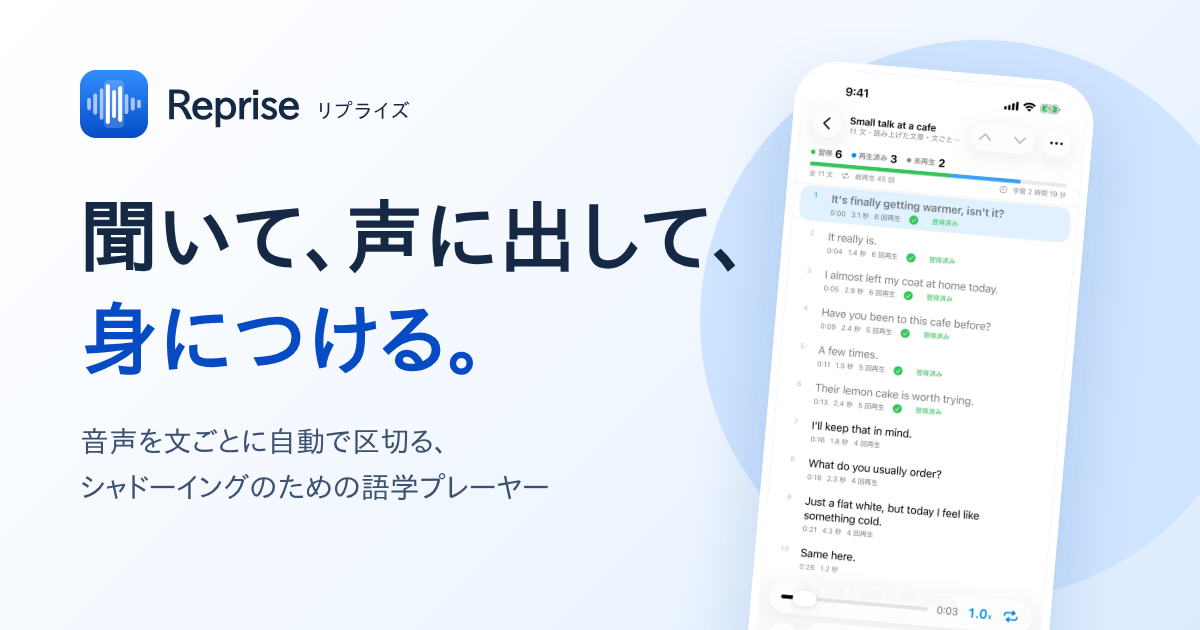
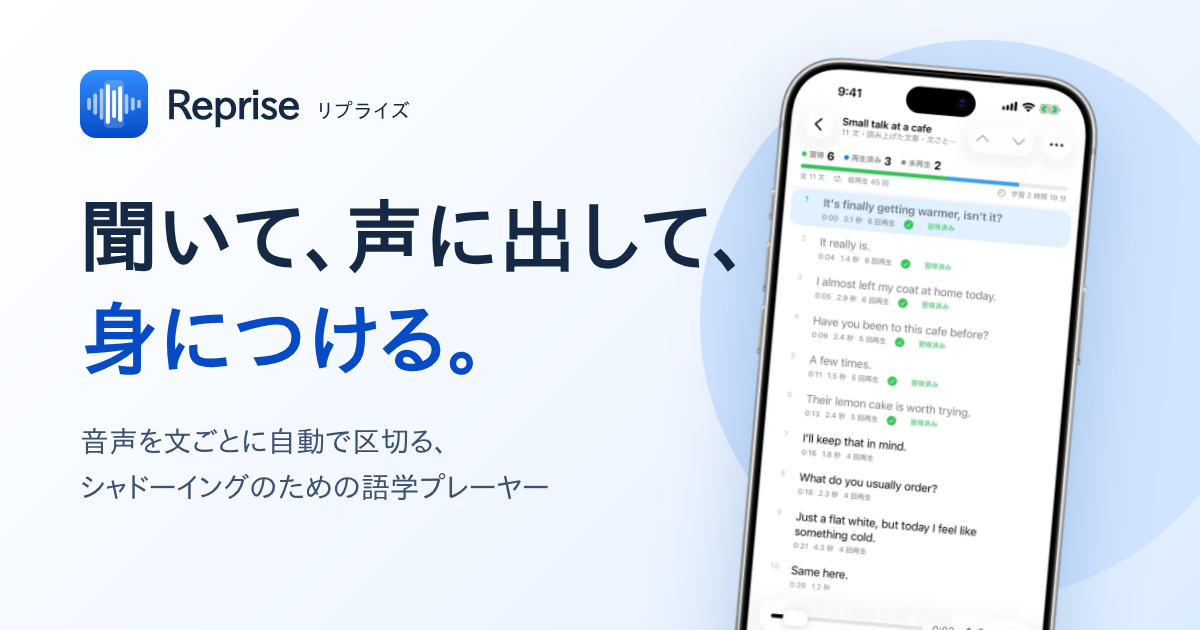
トップの画面を、iPhone の枠にはめ込んだ画像にする
- スクリーンショットを枠（scripts/iphone-frame.png）にはめ込む scripts/frame.py を加える
- 最初の画面・使える教材・学習記録の 3 か所と、SNS 共有用の画像を枠つきにする
- 作り直し方を README に書く

Claude-Session: https://claude.ai/code/session_01LzSbCUH6rd2J6LEi8o5qaL

Changed region(s): [[0.5858, 0.0905, 0.925, 1.0]]

diff --git a/scripts/og.html b/scripts/og.html
@@ -15,12 +15,12 @@
   h1 span { color: #074bc4; }
   p { font-size: 29px; line-height: 1.6; margin: 0; color: #3d5170; font-weight: 600; }
   .circle { position: absolute; right: -60px; top: 40px; width: 560px; height: 560px; border-radius: 50%; background: #cfe4ff; }
-  .phone { position: absolute; right: 130px; top: 70px; width: 300px; border: 8px solid #fff; border-radius: 44px;
-    overflow: hidden; transform: rotate(5deg); box-shadow: 0 30px 70px #1759a533; }
+  .phone { position: absolute; right: 120px; top: 60px; width: 330px; transform: rotate(5deg);
+    filter: drop-shadow(0 30px 40px #1759a540); }
   .phone img { display: block; width: 100%; }
 </style>
 <div class="circle"></div>
-<div class="phone"><img src="../public/assets/04-player-playing.webp"></div>
+<div class="phone"><img src="../public/assets/phone-04-player-playing.webp"></div>
 <div class="copy">
   <div class="brand"><img src="../public/assets/app-icon.png">Reprise<small>リプライズ</small></div>
   <h1>聞いて、声に出して、<br><span>身につける。</span></h1>

diff --git a/src/styles/lp.css b/src/styles/lp.css
@@ -2173,3 +2173,36 @@ img {
     font-size: 13px;
   }
 }
+
+/* iPhone の枠つきの画像（scripts/frame.py で作る）。枠は画像に入っているので、CSS の縁取りは外す。 */
+.phone.framed {
+  border: 0;
+  border-radius: 0;
+  background: none;
+  box-shadow: none;
+  overflow: visible;
+  filter: drop-shadow(0 26px 34px #1759a52e);
+}
+.hero-phone.framed {
+  width: 300px;
+}
+.material-phone.framed,
+.study-phone.framed {
+  width: 280px;
+}
+@media (max-width: 1000px) {
+  .hero-phone.framed {
+    width: 265px;
+  }
+}
+@media (max-width: 700px) {
+  .hero-phone.framed {
+    width: 228px;
+  }
+  .material-phone.framed {
+    width: 245px;
+  }
+  .study-phone.framed {
+    width: 252px;
+  }
+}

diff --git a/scripts/frame.py b/scripts/frame.py
@@ -1,0 +1,48 @@
+# iPhone の枠（モック）にスクリーンショットをはめ込んで WebP にする。
+# 使い方: python3 scripts/frame.py 枠.png 画面.webp 出力.webp
+import sys
+import numpy as np
+from PIL import Image, ImageDraw, ImageFilter
+
+frame_path, shot_path, out_path = sys.argv[1:4]
+OUT_WIDTH = 720
+
+frame = Image.open(frame_path).convert('RGBA')
+a = np.asarray(frame).astype(np.float32)
+h, w = a.shape[:2]
+lum = a[..., :3].mean(axis=2)
+white = (lum > 245) & (a[..., 3] > 250)
+# 中央からつながっている白い部分が画面
+fill = Image.fromarray((white * 255).astype(np.uint8)).copy()
+ImageDraw.floodfill(fill, (w // 2, h // 2), 128)
+screen = np.asarray(fill) == 128
+# 行ごとに左端から右端までを画面とみなす（時刻やダイナミックアイランドの穴を埋める）
+hull = np.zeros_like(screen)
+rows = np.where(screen.any(axis=1))[0]
+for y in rows:
+    xs = np.where(screen[y])[0]
+    hull[y, xs[0]:xs[-1] + 1] = True
+top, bottom = rows[0], rows[-1]
+cols = np.where(hull.any(axis=0))[0]
+left, right = cols[0], cols[-1]
+
+# ダイナミックアイランド: 画面上部の中央にある黒いかたまり
+island_alpha = np.zeros((h, w), np.float32)
+box = (slice(top, top + int(h * 0.075)), slice(int(w * 0.34), int(w * 0.66)))
+island_alpha[box] = np.clip((200 - lum[box]) / 150, 0, 1)
+island_alpha *= hull
+
+shot = Image.open(shot_path).convert('RGB').resize((right - left + 1, bottom - top + 1), Image.LANCZOS)
+s = np.zeros((h, w, 3), np.float32)
+s[top:bottom + 1, left:right + 1] = np.asarray(shot)
+
+# 画面の縁はなめらかに（枠との境目のぎざぎざを消す）
+soft = np.asarray(Image.fromarray((hull * 255).astype(np.uint8)).filter(ImageFilter.GaussianBlur(1.2))).astype(np.float32) / 255
+m = soft[..., None]
+rgb = a[..., :3] * (1 - m) + s * m
+ia = island_alpha[..., None]
+rgb = rgb * (1 - ia) + a[..., :3] * ia
+out = np.dstack([rgb, a[..., 3]]).clip(0, 255).astype(np.uint8)
+img = Image.fromarray(out, 'RGBA').resize((OUT_WIDTH, round(h * OUT_WIDTH / w)), Image.LANCZOS)
+img.save(out_path, 'WEBP', quality=86, method=6)
+print(out_path, img.size, 'screen', (left, top, right, bottom))

diff --git a/README.md b/README.md
@@ -28,43 +28,18 @@ Reprise（リプライズ）のサイト。Astro でビルドし、Cloudflare Wo
 
 ## スクリーンショットを差し替えるとき
 
-トップで使っている画面は次の 3 枚（幅 660 × 高さ 1434 の WebP）。同じファイル名で置き換えれば、そのまま反映される。
-縦横比を変えるときは、`src/pages/index.astro` の `width`・`height` も直す。
-
-| ファイル | 使っている場所 |
-|---|---|
-| `public/assets/04-player-playing.webp` | 最初の画面、SNS 共有用の画像 |
-| `public/assets/13-podcast-picker.webp` | 「使える教材」 |
-| `public/assets/07-study-log.webp` | 学習記録 |
-
-## 手元で動かす
+トップの画面は、スクリーンショットを iPhone の枠（`scripts/iphone-frame.png`）にはめ込んだ画像を使っている。
+元のスクリーンショット（`public/assets/04-player-playing.webp` など）を置き換えたら、次で枠つきの画像を作り直す
+（Python に Pillow と NumPy が要る）。
 
 ```sh
-npm install
-npm run dev       # http://localhost:4321 で編集しながら確認
-npm run preview   # ビルドして、本番と同じ Cloudflare の配信方法（wrangler dev）で確認
+python3 scripts/frame.py scripts/iphone-frame.png public/assets/04-player-playing.webp public/assets/phone-04-player-playing.webp
 ```
 
-## デプロイ
-
-`main` に push すると、Cloudflare の Workers Builds が自動でビルド・デプロイする。
-PR ごとにプレビュー用の URL も出る。
-
-初回だけ、Cloudflare のダッシュボードで次を設定する。
-
-1. **Workers & Pages** → **Create** → **Import a repository** で GitHub を連携し、`ponzudev/reprise-site` を選ぶ
-2. プロジェクト名は `reprise-site`（`wrangler.jsonc` の `name` と同じにする）
-3. Build command: `npm run build` / Deploy command: `npx wrangler deploy`
-4. デプロイが終わると、`wrangler.jsonc` の `routes` によって `reprise.ponzudev.app` の DNS と証明書が自動で作られる
-
-## 旧 URL（GitHub Pages）
-
-以前は `https://ponzudev.github.io/reprise-site/` で公開していた。アプリの古いバージョンと
-App Store Connect にこの URL が残っているので、GitHub Pages は止めずに、新しい URL へ転送するページだけを置く。
-転送用のページは `legacy-redirects` ブランチにある。
-
-| 旧 URL | 転送先 |
+| 枠つきの画像 | 使っている場所 |
 |---|---|
-| `/reprise-site/` | `/privacy` |
-| `/reprise-site/support` | `/support` |
-| `/reprise-site/lp/` | `/` |
+| `public/assets/phone-04-player-playing.webp` | 最初の画面、SNS 共有用の画像 |
+| `public/assets/phone-13-podcast-picker.webp` | 「使える教材」 |
+| `public/assets/phone-07-study-log.webp` | 学習記録 |
+
+最初の画面の画像を変えたら、SNS 共有用の画像（`public/assets/og.png`）も作り直す。
